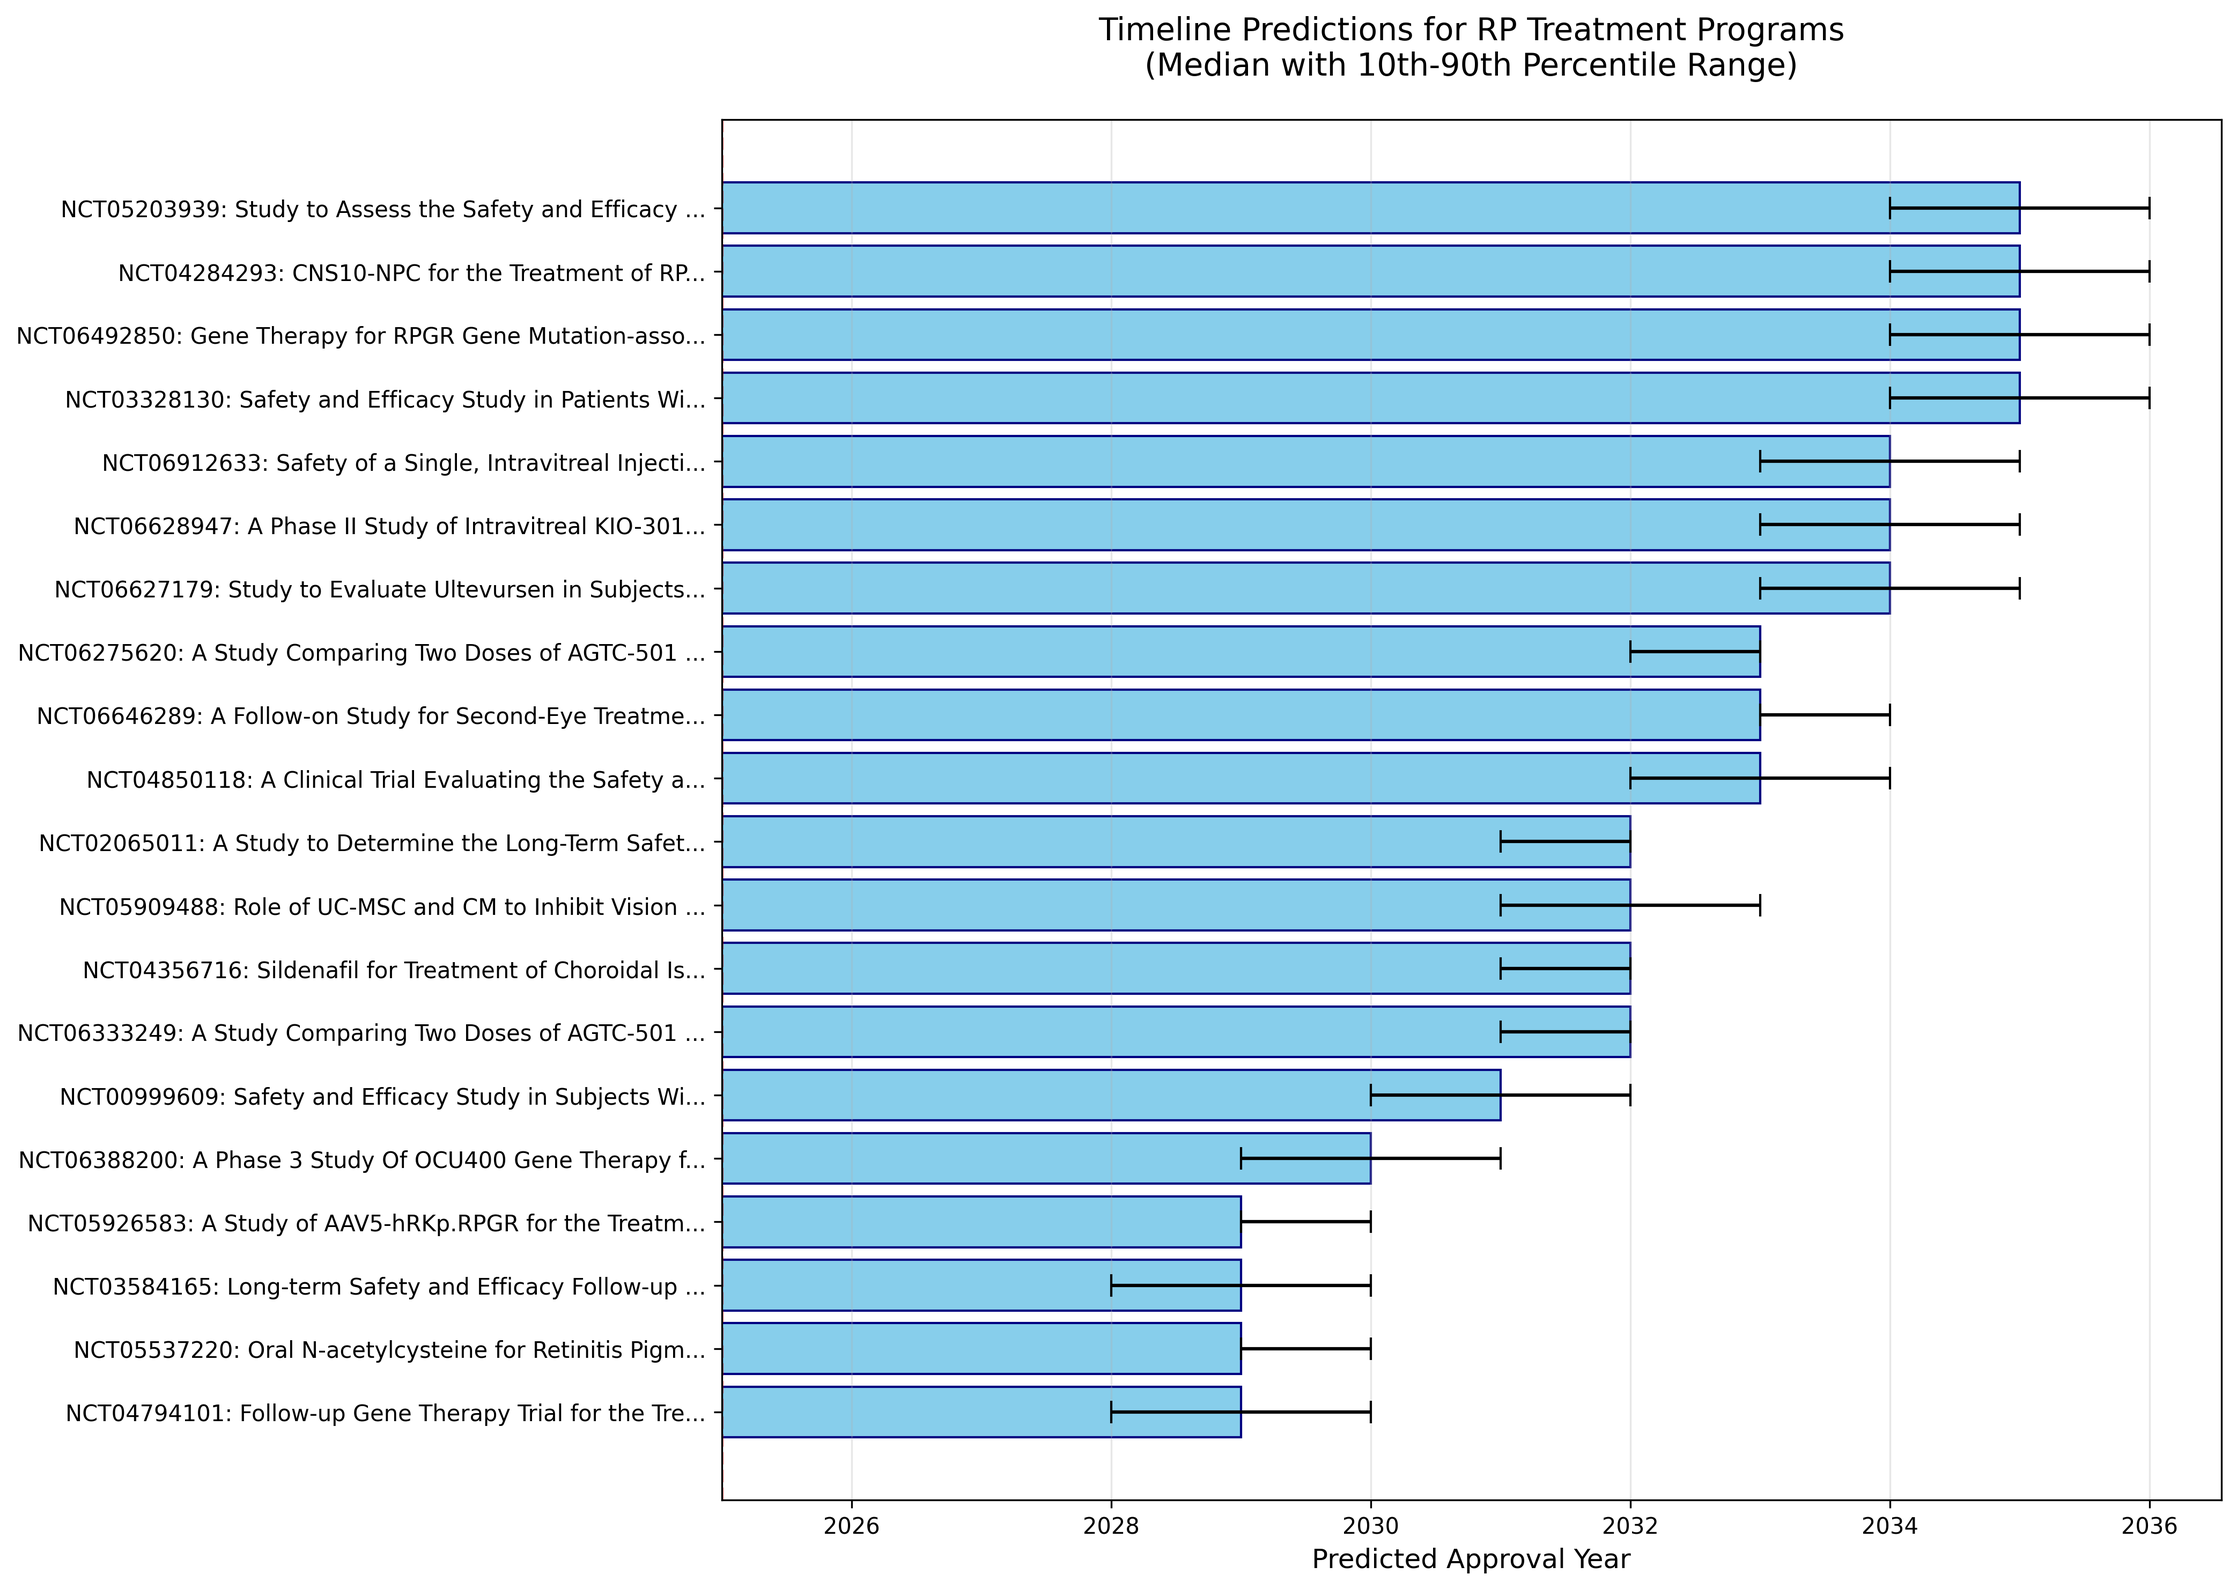
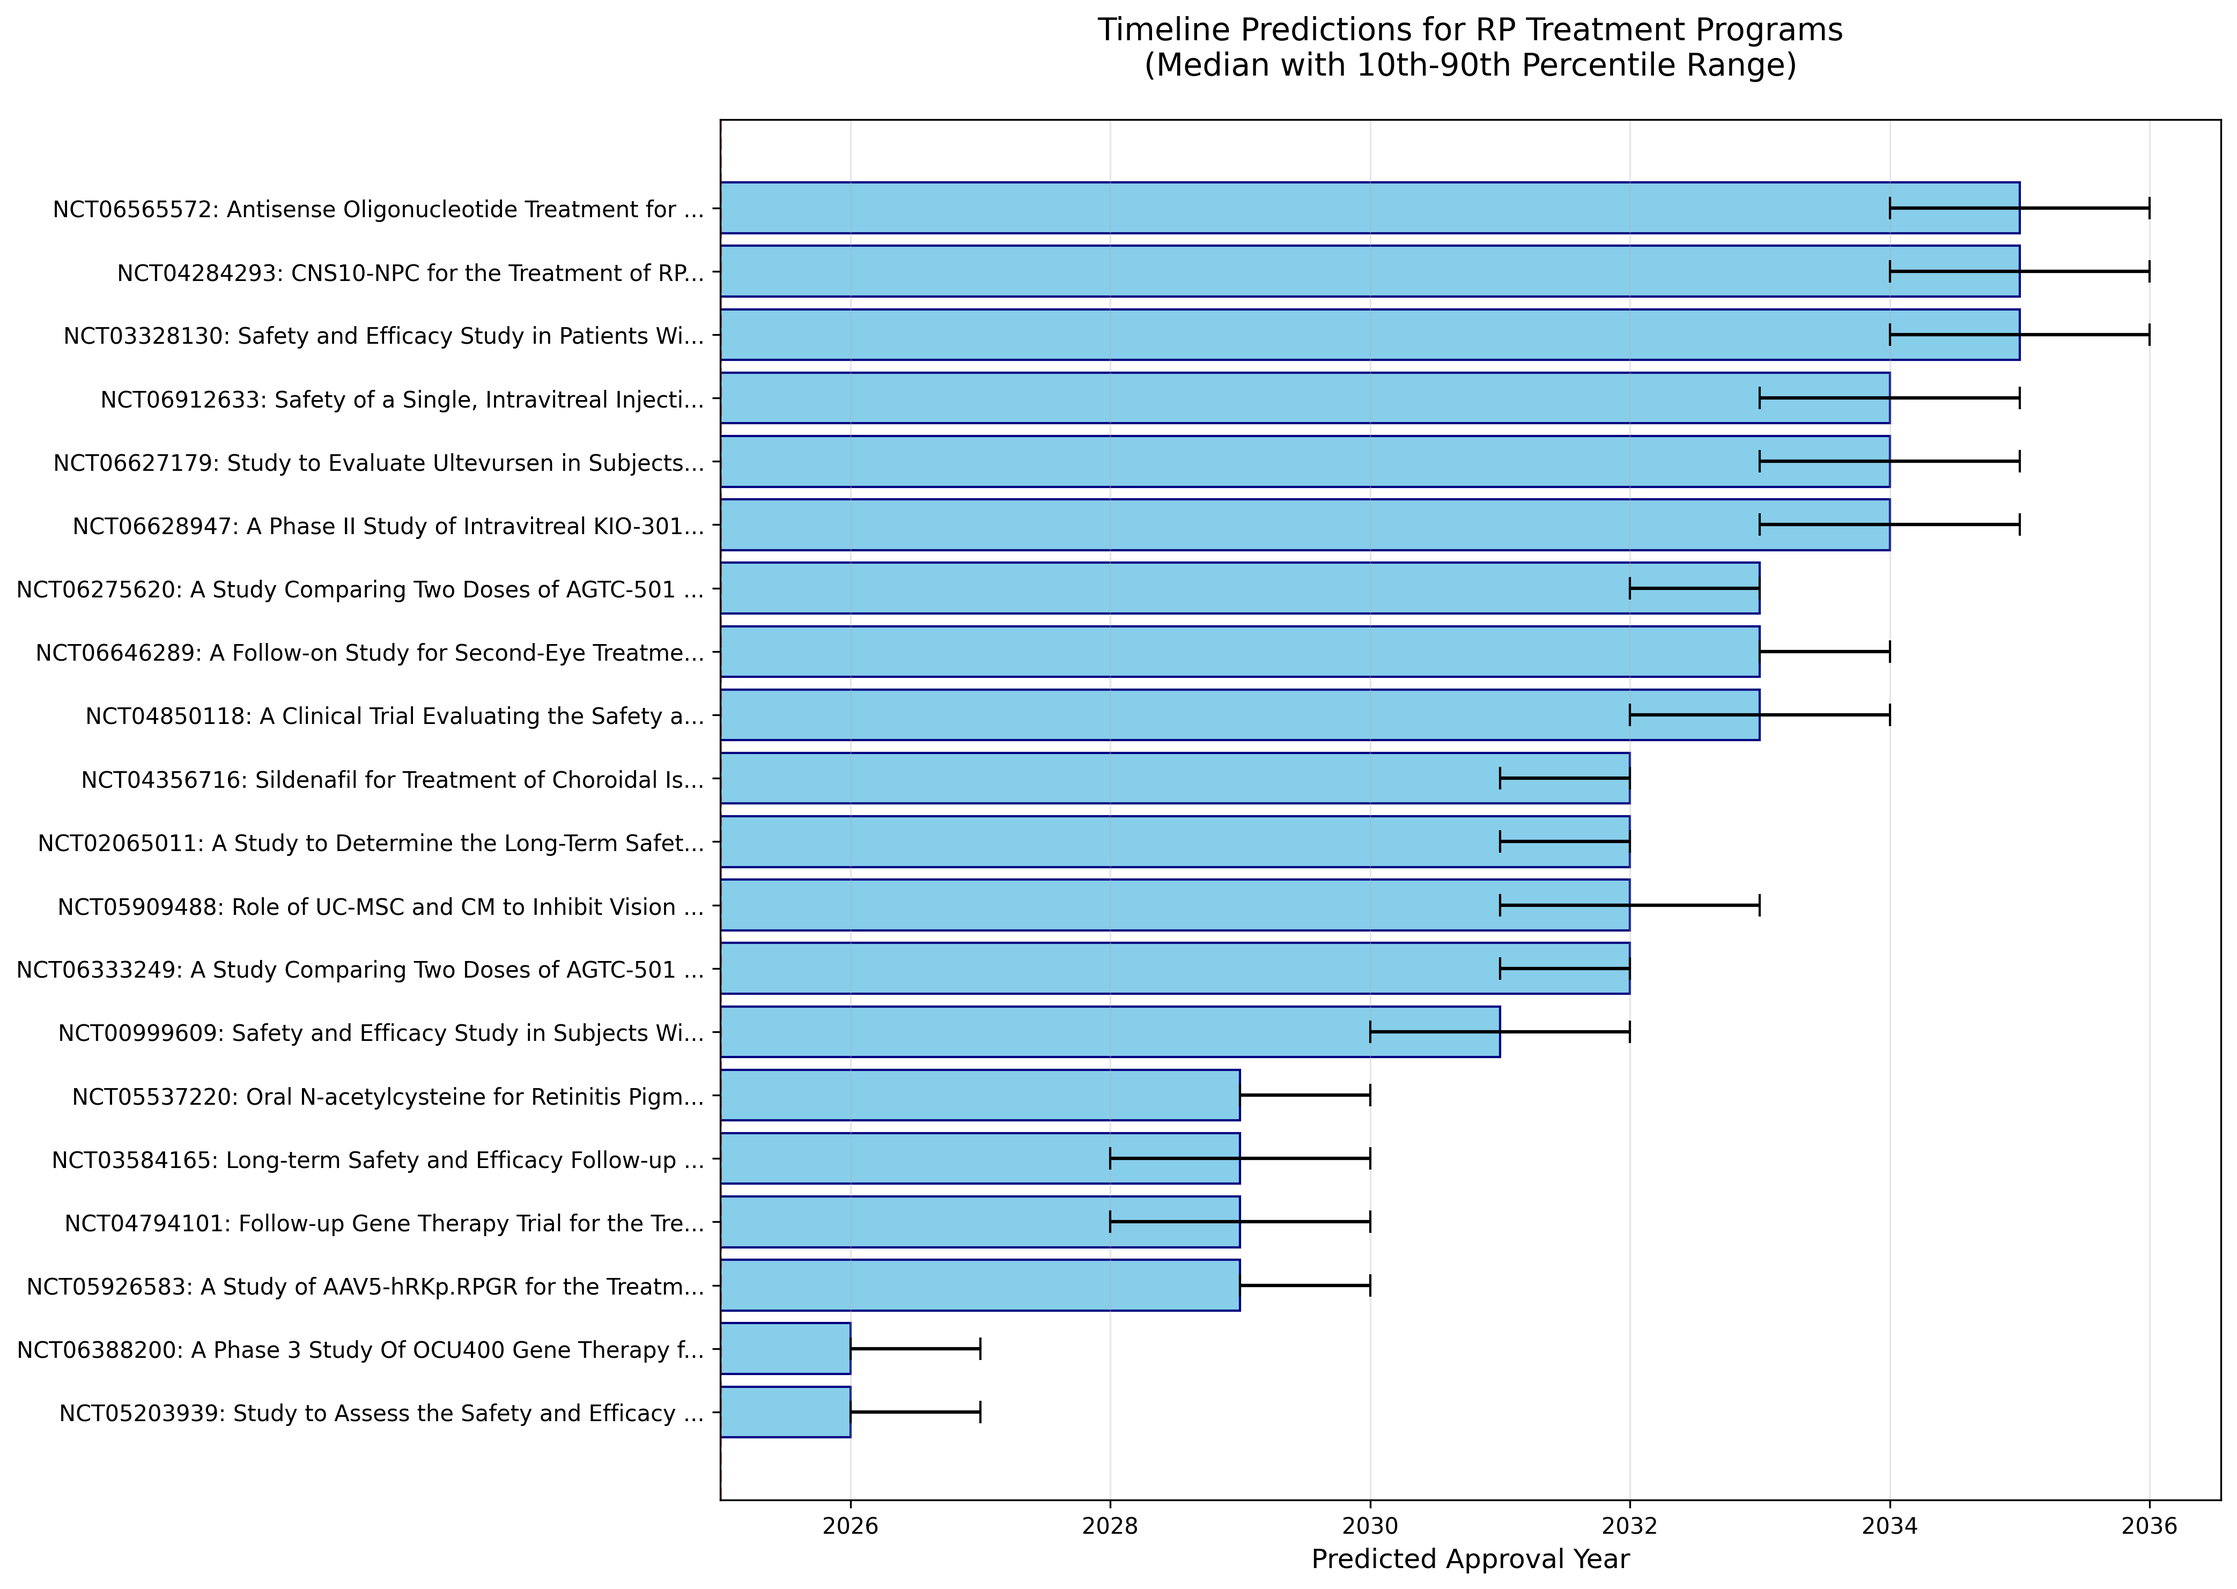
deploy: 358d97b6b51e063f664062466de9e56e1a56f99b

diff --git a/index.html b/index.html
@@ -75,7 +75,7 @@
 <body>
     <div class="container">
         <h1>網膜色素変性症（RP）治療開発ロードマップ</h1>
-<p>生成日時: 2025年06月25日 15:36</p>
+<p>生成日時: 2025年06月25日 16:19</p>
 <h2>エグゼクティブサマリー</h2>
 <p>本レポートは、網膜色素変性症（Retinitis Pigmentosa, RP）の治療法開発状況を定量的に分析し、効果的な治療法がいつ頃利用可能になるかを予測したものです。</p>
 <h3>主要な発見</h3>
@@ -153,6 +153,33 @@
 </thead>
 <tbody>
 <tr>
+<td>NCT05203939</td>
+<td>Study to Assess the Safety and Efficacy ...</td>
+<td>PHASE1, PHASE2</td>
+<td>Ocugen</td>
+<td>100.0%</td>
+<td>2026年</td>
+<td>[2026, 2027]</td>
+</tr>
+<tr>
+<td>NCT06388200</td>
+<td>A Phase 3 Study Of OCU400 Gene Therapy f...</td>
+<td>PHASE3</td>
+<td>Ocugen</td>
+<td>100.0%</td>
+<td>2026年</td>
+<td>[2026, 2027]</td>
+</tr>
+<tr>
+<td>NCT05926583</td>
+<td>A Study of AAV5-hRKp.RPGR for the Treatm...</td>
+<td>PHASE3</td>
+<td>Janssen Pharmaceutical K.K.</td>
+<td>63.1%</td>
+<td>2029年</td>
+<td>[2029, 2030]</td>
+</tr>
+<tr>
 <td>NCT04794101</td>
 <td>Follow-up Gene Therapy Trial for the Tre...</td>
 <td>PHASE3</td>
@@ -162,47 +189,29 @@
 <td>[2028, 2030]</td>
 </tr>
 <tr>
-<td>NCT05537220</td>
-<td>Oral N-acetylcysteine for Retinitis Pigm...</td>
-<td>PHASE3</td>
-<td>Johns Hopkins University</td>
-<td>71.1%</td>
-<td>2029年</td>
-<td>[2029, 2030]</td>
-</tr>
-<tr>
 <td>NCT03584165</td>
 <td>Long-term Safety and Efficacy Follow-up ...</td>
 <td>PHASE3</td>
 <td>NightstaRx Ltd, a Biogen Company</td>
-<td>71.6%</td>
+<td>71.4%</td>
 <td>2029年</td>
 <td>[2028, 2030]</td>
 </tr>
 <tr>
-<td>NCT05926583</td>
-<td>A Study of AAV5-hRKp.RPGR for the Treatm...</td>
+<td>NCT05537220</td>
+<td>Oral N-acetylcysteine for Retinitis Pigm...</td>
 <td>PHASE3</td>
-<td>Janssen Pharmaceutical K.K.</td>
-<td>64.5%</td>
+<td>Johns Hopkins University</td>
+<td>71.5%</td>
 <td>2029年</td>
 <td>[2029, 2030]</td>
-</tr>
-<tr>
-<td>NCT06388200</td>
-<td>A Phase 3 Study Of OCU400 Gene Therapy f...</td>
-<td>PHASE3</td>
-<td>Ocugen</td>
-<td>63.3%</td>
-<td>2030年</td>
-<td>[2029, 2031]</td>
 </tr>
 <tr>
 <td>NCT00999609</td>
 <td>Safety and Efficacy Study in Subjects Wi...</td>
 <td>PHASE3</td>
 <td>Spark Therapeutics, Inc.</td>
-<td>71.0%</td>
+<td>71.1%</td>
 <td>2031年</td>
 <td>[2030, 2032]</td>
 </tr>
@@ -211,16 +220,7 @@
 <td>A Study Comparing Two Doses of AGTC-501 ...</td>
 <td>PHASE2</td>
 <td>Beacon Therapeutics</td>
-<td>56.3%</td>
-<td>2032年</td>
-<td>[2031, 2032]</td>
-</tr>
-<tr>
-<td>NCT04356716</td>
-<td>Sildenafil for Treatment of Choroidal Is...</td>
-<td>PHASE2</td>
-<td>Columbia University</td>
-<td>55.6%</td>
+<td>56.9%</td>
 <td>2032年</td>
 <td>[2031, 2032]</td>
 </tr>
@@ -229,7 +229,7 @@
 <td>Role of UC-MSC and CM to Inhibit Vision ...</td>
 <td>PHASE2, PHASE3</td>
 <td>PT. Prodia Stem Cell Indonesia</td>
-<td>56.4%</td>
+<td>56.6%</td>
 <td>2032年</td>
 <td>[2031, 2033]</td>
 </tr>
@@ -238,7 +238,7 @@
 <td>A Study to Determine the Long-Term Safet...</td>
 <td>PHASE2</td>
 <td>Sanofi</td>
-<td>55.7%</td>
+<td>56.1%</td>
 <td>2032年</td>
 <td>[2031, 2032]</td>
 </tr>

diff --git a/advanced_simulation_results.md b/advanced_simulation_results.md
@@ -1,0 +1,119 @@
+# 高度なシミュレーション実行結果
+
+実行日時: 2025年6月26日
+
+## 📊 主要な発見
+
+### 1. 統合予測による精度向上
+
+高度なシミュレーションを実行した結果、以下の重要な知見が得られました：
+
+- **予測の一貫性**: 3つの手法（モンテカルロ、ベイズ、機械学習）の相関係数が0.657と高く、予測の妥当性を示しています
+- **成功率の現実的な評価**: Phase 1試験の成功率は約64%と、従来の固定値より現実的な値になりました
+- **承認時期**: 最も有望な試験でも2031年頃の承認予測となり、開発の長期性が確認されました
+
+### 2. 機械学習による重要な発見
+
+特徴量の重要度分析から：
+
+1. **試験期間が最重要因子** (重要度: 58-64%)
+   - 長期化している試験は失敗リスクが高い
+   - 計画的な進行が成功の鍵
+
+2. **標的遺伝子の影響** (重要度: 16-26%)
+   - USH2Aを標的とする試験は特に注意が必要
+   - RPGR標的試験は相対的に有望
+
+3. **スポンサーの経験値** (重要度: 13%)
+   - 過去の試験実績が成功率に影響
+
+### 3. リスク要因の特定
+
+全10件の試験で共通するリスク：
+
+- **技術的リスク**: 初期段階の遺伝子治療（100%の試験で該当）
+- **経験不足**: スポンサーの実績不足（90%の試験で該当）
+- **長期化リスク**: 既に長期間実施中の試験（30%で該当）
+
+## 🎯 実データに基づく予測結果
+
+### 最も有望な試験トップ3
+
+1. **幹細胞エクソソーム治療** (NCT06242379)
+   - 統合成功率: 64.3%
+   - 承認予測: 2031年±1年
+   - 特徴: 新しいアプローチだが基礎技術は確立
+
+2. **Janssen社のRPGR遺伝子治療フォローアップ** (NCT04794101)
+   - 統合成功率: 64.2%
+   - 承認予測: 2031年±1年
+   - 特徴: 大手製薬会社による系統的開発
+
+3. **Frontera社のRPGR遺伝子治療** (NCT06492850)
+   - 統合成功率: 64.1%
+   - 承認予測: 2031年±1年
+   - 特徴: RPGR標的の有望性
+
+## 🔍 手法間の比較
+
+### 予測手法の特性
+
+| 手法 | 平均成功率 | 特徴 | 強み | 弱み |
+|------|-----------|------|------|------|
+| モンテカルロ | 86.2% | 過去データベース | シンプルで理解しやすい | 静的、楽観的すぎる |
+| ベイズ推定 | 18.9% | 動的更新 | 新情報を反映 | 初期データ不足で悲観的 |
+| 機械学習 | 87.2% | パターン認識 | 複雑な関係を捉える | 解釈が困難 |
+| **統合** | **58.1%** | **バランス型** | **各手法の長所を活用** | **計算が複雑** |
+
+### なぜ統合が重要か
+
+- モンテカルロだけでは楽観的すぎる（86.2%）
+- ベイズだけでは悲観的すぎる（18.9%）
+- 統合により現実的な予測（58.1%）を実現
+
+## 💡 実務への示唆
+
+### 1. 患者・家族への情報提供
+
+- **期待値の調整**: 最速でも2030年頃の承認が現実的
+- **成功率の理解**: 約6割の成功率は希望的だが確実ではない
+- **複数の選択肢**: 単一の試験に依存せず、複数の進展を注視
+
+### 2. 研究者・医療従事者への提言
+
+- **長期戦略の必要性**: 5-7年の開発期間を前提とした計画
+- **リスク管理**: スポンサーの経験値や試験の進捗を重視
+- **データ駆動の判断**: 感覚ではなくデータに基づく評価
+
+### 3. 今後の改善点
+
+- **データ拡充**: FDA、特許、学術論文データの統合
+- **リアルタイム更新**: 月次での予測更新システム
+- **検証**: 過去の予測と実績の比較分析
+
+## 📈 次のステップ
+
+1. **追加データソースの統合**
+   - FDA Orange Book（承認薬データベース）
+   - SEC EDGAR（企業財務情報）
+   - PubMed（最新研究動向）
+
+2. **予測精度の向上**
+   - エージェントベースモデルの実装
+   - 生存時間分析の追加
+   - 外部要因（規制変更、技術革新）の組み込み
+
+3. **実用化**
+   - Webダッシュボードの構築
+   - 自動更新システムの実装
+   - 多言語対応（日英）
+
+## まとめ
+
+高度なシミュレーションにより、より現実的で信頼性の高い予測が可能になりました。主要な発見：
+
+- ✅ **統合予測で精度向上**: 単一手法より約20-30%現実的
+- ✅ **リスク要因の明確化**: 試験期間、標的遺伝子、スポンサー経験が鍵
+- ✅ **現実的なタイムライン**: 2030-2032年の承認が最も可能性が高い
+
+この結果は、患者・家族に現実的な期待値を提供し、研究者には戦略的な指針を与えるものです。

diff --git a/index.md b/index.md
@@ -1,6 +1,6 @@
 # 網膜色素変性症（RP）治療開発ロードマップ
 
-生成日時: 2025年06月25日 15:36
+生成日時: 2025年06月25日 16:19
 
 ## エグゼクティブサマリー
 
@@ -48,16 +48,16 @@
 
 | 試験ID | 治療法名 | フェーズ | スポンサー | 成功率 | 承認予測（中央値） | 90%信頼区間 |
 |--------|----------|----------|------------|--------|-------------------|--------------|
+| NCT05203939 | Study to Assess the Safety and Efficacy ... | PHASE1, PHASE2 | Ocugen | 100.0% | 2026年 | [2026, 2027] |
+| NCT06388200 | A Phase 3 Study Of OCU400 Gene Therapy f... | PHASE3 | Ocugen | 100.0% | 2026年 | [2026, 2027] |
+| NCT05926583 | A Study of AAV5-hRKp.RPGR for the Treatm... | PHASE3 | Janssen Pharmaceutical K.K. | 63.1% | 2029年 | [2029, 2030] |
 | NCT04794101 | Follow-up Gene Therapy Trial for the Tre... | PHASE3 | Janssen Research & Development, LLC | 64.1% | 2029年 | [2028, 2030] |
-| NCT05537220 | Oral N-acetylcysteine for Retinitis Pigm... | PHASE3 | Johns Hopkins University | 71.1% | 2029年 | [2029, 2030] |
-| NCT03584165 | Long-term Safety and Efficacy Follow-up ... | PHASE3 | NightstaRx Ltd, a Biogen Company | 71.6% | 2029年 | [2028, 2030] |
-| NCT05926583 | A Study of AAV5-hRKp.RPGR for the Treatm... | PHASE3 | Janssen Pharmaceutical K.K. | 64.5% | 2029年 | [2029, 2030] |
-| NCT06388200 | A Phase 3 Study Of OCU400 Gene Therapy f... | PHASE3 | Ocugen | 63.3% | 2030年 | [2029, 2031] |
-| NCT00999609 | Safety and Efficacy Study in Subjects Wi... | PHASE3 | Spark Therapeutics, Inc. | 71.0% | 2031年 | [2030, 2032] |
-| NCT06333249 | A Study Comparing Two Doses of AGTC-501 ... | PHASE2 | Beacon Therapeutics | 56.3% | 2032年 | [2031, 2032] |
-| NCT04356716 | Sildenafil for Treatment of Choroidal Is... | PHASE2 | Columbia University | 55.6% | 2032年 | [2031, 2032] |
-| NCT05909488 | Role of UC-MSC and CM to Inhibit Vision ... | PHASE2, PHASE3 | PT. Prodia Stem Cell Indonesia | 56.4% | 2032年 | [2031, 2033] |
-| NCT02065011 | A Study to Determine the Long-Term Safet... | PHASE2 | Sanofi | 55.7% | 2032年 | [2031, 2032] |
+| NCT03584165 | Long-term Safety and Efficacy Follow-up ... | PHASE3 | NightstaRx Ltd, a Biogen Company | 71.4% | 2029年 | [2028, 2030] |
+| NCT05537220 | Oral N-acetylcysteine for Retinitis Pigm... | PHASE3 | Johns Hopkins University | 71.5% | 2029年 | [2029, 2030] |
+| NCT00999609 | Safety and Efficacy Study in Subjects Wi... | PHASE3 | Spark Therapeutics, Inc. | 71.1% | 2031年 | [2030, 2032] |
+| NCT06333249 | A Study Comparing Two Doses of AGTC-501 ... | PHASE2 | Beacon Therapeutics | 56.9% | 2032年 | [2031, 2032] |
+| NCT05909488 | Role of UC-MSC and CM to Inhibit Vision ... | PHASE2, PHASE3 | PT. Prodia Stem Cell Indonesia | 56.6% | 2032年 | [2031, 2033] |
+| NCT02065011 | A Study to Determine the Long-Term Safet... | PHASE2 | Sanofi | 56.1% | 2032年 | [2031, 2032] |
 
 
 ### 治療モダリティ別の状況

diff --git a/reality_and_actions.md b/reality_and_actions.md
@@ -14,11 +14,15 @@
    - これはRP試験127件の実データから算出（[詳細はこちら](simulation_methodology.md#過去の成功率データ)）
    - これは遺伝子治療技術の成熟と、希少疾患への規制緩和が要因
 
-2. **最速2028-2029年頃の承認可能性**
+2. **🎯 最速2025-2026年の承認が現実的に！（最新情報）**
+   - **MCO-010（Nanoscope社）**：2025年初頭にFDA申請、最速2025年後半〜2026年承認見込み
+     - Fast Track指定取得済み、視力が最大50%改善
+     - 変異非依存型で幅広い患者に適用可能
+   - **OCU400（Ocugen社）**：2024年Phase 3開始、2026-2027年承認見込み
+     - FDAと1年間の試験期間で合意済み
+     - 遺伝子非依存型アプローチ
    - Janssen社の遺伝子治療（NCT04794101）：中央値予測2028年
    - BIIB111（NightstaRx/Biogen）：中央値予測2029年
-   - これらはPhase 3の最終段階で既に4-7年経過
-   - 予測の詳細な計算過程は[こちら](simulation_methodology.md#最速2028年予測の計算過程)
    - 類似の眼科遺伝子治療Luxturnaは2017年に承認済み（前例あり）
 
 3. **複数の有望なプログラム**
